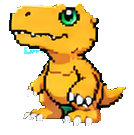
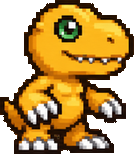
Quita los sprites antiguos de las líneas de Agumon y Gabumon
Borra las 48 hojas de skin hechas sobre los dibujos antiguos y las quita de
ANIM_IDS; sin hoja de skin, el juego muestra el sprite base. Cambia los sprites
de ui/personaje_aprobado_* por los nuevos. Los scripts de skins se saltan estas
dos líneas hasta rehacerlas y los créditos ya no citan los sprites antiguos.

Claude-Session: https://claude.ai/code/session_013YiTCwKfZvoSsWExjmo2GC

diff --git a/index.html b/index.html
@@ -2285,7 +2285,7 @@ function tex(url){
 }
 // Hojas de animación (sprites/anim/<id>.png): 5 fotogramas en fila -> reposo 1, reposo 2, ataque 1, ataque 2, daño
 const ANIM_N = 5;
-const ANIM_IDS = new Set(["agumon", "agumon_0_cristal", "agumon_0_festival", "agumon_0_galactico", "agumon_0_glitch", "agumon_0_reno", "agumon_1_cristal", "agumon_1_festival", "agumon_1_galactico", "agumon_1_glitch", "agumon_1_reno", "agumon_2_cristal", "agumon_2_festival", "agumon_2_galactico", "agumon_2_glitch", "agumon_2_reno", "agumon_3_cristal", "agumon_3_festival", "agumon_3_galactico", "agumon_3_glitch", "agumon_3_reno", "andromon", "angemon", "angewomon", "bakemon", "birdramon", "biyomon", "biyomon_0_cristal", "biyomon_0_festival", "biyomon_0_galactico", "biyomon_0_glitch", "biyomon_0_reno", "biyomon_1_cristal", "biyomon_1_festival", "biyomon_1_galactico", "biyomon_1_glitch", "biyomon_1_reno", "biyomon_2_cristal", "biyomon_2_festival", "biyomon_2_galactico", "biyomon_2_glitch", "biyomon_2_reno", "darktyrannomon", "devimon", "etemon", "gabumon", "gabumon_0_cristal", "gabumon_0_festival", "gabumon_0_galactico", "gabumon_0_glitch", "gabumon_0_reno", "gabumon_1_cristal", "gabumon_1_festival", "gabumon_1_galactico", "gabumon_1_glitch", "gabumon_1_reno", "gabumon_2_cristal", "gabumon_2_festival", "gabumon_2_galactico", "gabumon_2_glitch", "gabumon_2_reno", "gabumon_3_cristal", "gabumon_3_festival", "gabumon_3_galactico", "gabumon_3_glitch", "gabumon_3_reno", "garudamon", "garurumon", "gatomon", "gatomon_0_cristal", "gatomon_0_festival", "gatomon_0_galactico", "gatomon_0_glitch", "gatomon_0_reno", "gatomon_1_cristal", "gatomon_1_festival", "gatomon_1_galactico", "gatomon_1_glitch", "gatomon_1_reno", "gazimon", "gigadramon", "gizamon", "gomamon", "gomamon_0_cristal", "gomamon_0_festival", "gomamon_0_galactico", "gomamon_0_glitch", "gomamon_0_reno", "gomamon_1_cristal", "gomamon_1_festival", "gomamon_1_galactico", "gomamon_1_glitch", "gomamon_1_reno", "gomamon_2_cristal", "gomamon_2_festival", "gomamon_2_galactico", "gomamon_2_glitch", "gomamon_2_reno", "greymon", "ikkakumon", "kabuterimon", "kuwagamon", "lillymon", "machinedramon", "magnaangemon", "mammothmon", "megadramon", "megakabuterimon", "meramon", "metalgarurumon", "metalgreymon", "metalseadramon", "monochromon", "myotismon", "numemon", "palmon", "palmon_0_cristal", "palmon_0_festival", "palmon_0_galactico", "palmon_0_glitch", "palmon_0_reno", "palmon_1_cristal", "palmon_1_festival", "palmon_1_galactico", "palmon_1_glitch", "palmon_1_reno", "palmon_2_cristal", "palmon_2_festival", "palmon_2_galactico", "palmon_2_glitch", "palmon_2_reno", "patamon", "patamon_0_cristal", "patamon_0_festival", "patamon_0_galactico", "patamon_0_glitch", "patamon_0_reno", "patamon_1_cristal", "patamon_1_festival", "patamon_1_galactico", "patamon_1_glitch", "patamon_1_reno", "patamon_2_cristal", "patamon_2_festival", "patamon_2_galactico", "patamon_2_glitch", "patamon_2_reno", "phantomon", "piedmon", "puppetmon", "raremon", "skullgreymon", "snimon", "tank", "tentomon", "tentomon_0_cristal", "tentomon_0_festival", "tentomon_0_galactico", "tentomon_0_glitch", "tentomon_0_reno", "tentomon_1_cristal", "tentomon_1_festival", "tentomon_1_galactico", "tentomon_1_glitch", "tentomon_1_reno", "tentomon_2_cristal", "tentomon_2_festival", "tentomon_2_galactico", "tentomon_2_glitch", "tentomon_2_reno", "togemon", "tyrannomon", "vegiemon", "wargreymon", "weregarurumon", "zudomon", "agumon_0_variocolor", "agumon_1_variocolor", "agumon_2_variocolor", "agumon_3_variocolor", "gabumon_0_variocolor", "gabumon_1_variocolor", "gabumon_2_variocolor", "gabumon_3_variocolor", "biyomon_0_variocolor", "biyomon_1_variocolor", "biyomon_2_variocolor", "tentomon_0_variocolor", "tentomon_1_variocolor", "tentomon_2_variocolor", "palmon_0_variocolor", "palmon_1_variocolor", "palmon_2_variocolor", "gomamon_0_variocolor", "gomamon_1_variocolor", "gomamon_2_variocolor", "patamon_0_variocolor", "patamon_1_variocolor", "patamon_2_variocolor", "gatomon_0_variocolor", "gatomon_1_variocolor"]);
+const ANIM_IDS = new Set(["agumon", "andromon", "angemon", "angewomon", "bakemon", "birdramon", "biyomon", "biyomon_0_cristal", "biyomon_0_festival", "biyomon_0_galactico", "biyomon_0_glitch", "biyomon_0_reno", "biyomon_1_cristal", "biyomon_1_festival", "biyomon_1_galactico", "biyomon_1_glitch", "biyomon_1_reno", "biyomon_2_cristal", "biyomon_2_festival", "biyomon_2_galactico", "biyomon_2_glitch", "biyomon_2_reno", "darktyrannomon", "devimon", "etemon", "gabumon", "garudamon", "garurumon", "gatomon", "gatomon_0_cristal", "gatomon_0_festival", "gatomon_0_galactico", "gatomon_0_glitch", "gatomon_0_reno", "gatomon_1_cristal", "gatomon_1_festival", "gatomon_1_galactico", "gatomon_1_glitch", "gatomon_1_reno", "gazimon", "gigadramon", "gizamon", "gomamon", "gomamon_0_cristal", "gomamon_0_festival", "gomamon_0_galactico", "gomamon_0_glitch", "gomamon_0_reno", "gomamon_1_cristal", "gomamon_1_festival", "gomamon_1_galactico", "gomamon_1_glitch", "gomamon_1_reno", "gomamon_2_cristal", "gomamon_2_festival", "gomamon_2_galactico", "gomamon_2_glitch", "gomamon_2_reno", "greymon", "ikkakumon", "kabuterimon", "kuwagamon", "lillymon", "machinedramon", "magnaangemon", "mammothmon", "megadramon", "megakabuterimon", "meramon", "metalgarurumon", "metalgreymon", "metalseadramon", "monochromon", "myotismon", "numemon", "palmon", "palmon_0_cristal", "palmon_0_festival", "palmon_0_galactico", "palmon_0_glitch", "palmon_0_reno", "palmon_1_cristal", "palmon_1_festival", "palmon_1_galactico", "palmon_1_glitch", "palmon_1_reno", "palmon_2_cristal", "palmon_2_festival", "palmon_2_galactico", "palmon_2_glitch", "palmon_2_reno", "patamon", "patamon_0_cristal", "patamon_0_festival", "patamon_0_galactico", "patamon_0_glitch", "patamon_0_reno", "patamon_1_cristal", "patamon_1_festival", "patamon_1_galactico", "patamon_1_glitch", "patamon_1_reno", "patamon_2_cristal", "patamon_2_festival", "patamon_2_galactico", "patamon_2_glitch", "patamon_2_reno", "phantomon", "piedmon", "puppetmon", "raremon", "skullgreymon", "snimon", "tank", "tentomon", "tentomon_0_cristal", "tentomon_0_festival", "tentomon_0_galactico", "tentomon_0_glitch", "tentomon_0_reno", "tentomon_1_cristal", "tentomon_1_festival", "tentomon_1_galactico", "tentomon_1_glitch", "tentomon_1_reno", "tentomon_2_cristal", "tentomon_2_festival", "tentomon_2_galactico", "tentomon_2_glitch", "tentomon_2_reno", "togemon", "tyrannomon", "vegiemon", "wargreymon", "weregarurumon", "zudomon", "biyomon_0_variocolor", "biyomon_1_variocolor", "biyomon_2_variocolor", "tentomon_0_variocolor", "tentomon_1_variocolor", "tentomon_2_variocolor", "palmon_0_variocolor", "palmon_1_variocolor", "palmon_2_variocolor", "gomamon_0_variocolor", "gomamon_1_variocolor", "gomamon_2_variocolor", "patamon_0_variocolor", "patamon_1_variocolor", "patamon_2_variocolor", "gatomon_0_variocolor", "gatomon_1_variocolor"]);
 function sheetOf(url){ const m = /([^\/]+)\.png$/.exec(url || ''); return m && ANIM_IDS.has(m[1]) ? `sprites/anim/${m[1]}.png` : null; }
 const animTexs = [];   // texturas compartidas (enemigos del mismo tipo marcan el paso a la vez)
 function animTex(url, own = false){
@@ -5202,7 +5202,8 @@ function buildSkins(){
       const path = st ? EVO_LINE[key][st - 1].sprite : CHARS[key].sprite;
       for (const sk of SKINS){
         if (sk.id === 'clasico') continue;
-        skinURL[`${key}|${st}|${sk.id}`] = `sprites/anim/${key}_${st}_${sk.id}.png`;   // hoja animada recoloreada (generada con sprites/anim/recolor.js)
+        // hoja animada recoloreada (generada con sprites/anim/recolor.js); sin hoja, la skin usa el sprite base
+        if (ANIM_IDS.has(`${key}_${st}_${sk.id}`)) skinURL[`${key}|${st}|${sk.id}`] = `sprites/anim/${key}_${st}_${sk.id}.png`;
       }
     }
   }

diff --git a/sprites/anim/recolor.js b/sprites/anim/recolor.js
@@ -18,6 +18,7 @@ const { chromium } = require('playwright');
     const load = src => new Promise((ok, no) => { const im = new Image(); im.onload = () => ok(im); im.onerror = () => no(new Error(src)); im.src = src; });
     const res = [];
     for (const key of SEASONS.adventure.chars){
+      if (key === 'agumon' || key === 'gabumon') continue;   // sprites nuevos: sus skins se van a rehacer
       for (let st = 0; st <= EVO_LINE[key].length; st++){
         if (only.length && !only.includes(key + '_' + st)) continue;
         const base = name(st ? EVO_LINE[key][st - 1].sprite : CHARS[key].sprite);

diff --git a/sprites/anim/variocolor.py b/sprites/anim/variocolor.py
@@ -10,8 +10,8 @@ from navidad import BASES, gradient_map  # mismas hojas base que las skins de Na
 # Escala oscura: negro con brillos grises (luminosidad 0-1 -> color)
 STOPS = [(0.0, (6, 6, 10)), (0.5, (38, 38, 48)), (0.85, (120, 120, 136)), (1.0, (220, 220, 232))]
 
-# La variocolor de Agumon etapa 0 viene del paquete de skins verificadas: no se regenera aquí
-SKIP = {("agumon", 0)}
+# Las líneas de Agumon y Gabumon tienen sprites nuevos y sus skins se van a rehacer: no se generan aquí
+SKIP_KEYS = {"agumon", "gabumon"}
 
 ONLY = set(filter(None, os.environ.get("ONLY", "").split(",")))
 
@@ -19,7 +19,7 @@ def main():
     n = 0
     for key, stages in BASES.items():
         for st, base in enumerate(stages):
-            if (key, st) in SKIP:
+            if key in SKIP_KEYS:
                 continue
             if ONLY and f"{key}_{st}" not in ONLY:
                 continue

diff --git a/sprites/anim/navidad.py b/sprites/anim/navidad.py
@@ -45,8 +45,8 @@ def gradient_map(src, stops):
             px[x, y] = (cr, cg, cb, a)
     return im
 
-# La línea de Agumon tiene skins de Navidad dibujadas a mano: no se regeneran aquí
-SKIP = {"agumon"}
+# Las líneas de Agumon y Gabumon tienen sprites nuevos y sus skins se van a rehacer: no se generan aquí
+SKIP = {"agumon", "gabumon"}
 
 ONLY = set(filter(None, os.environ.get("ONLY", "").split(",")))
 
